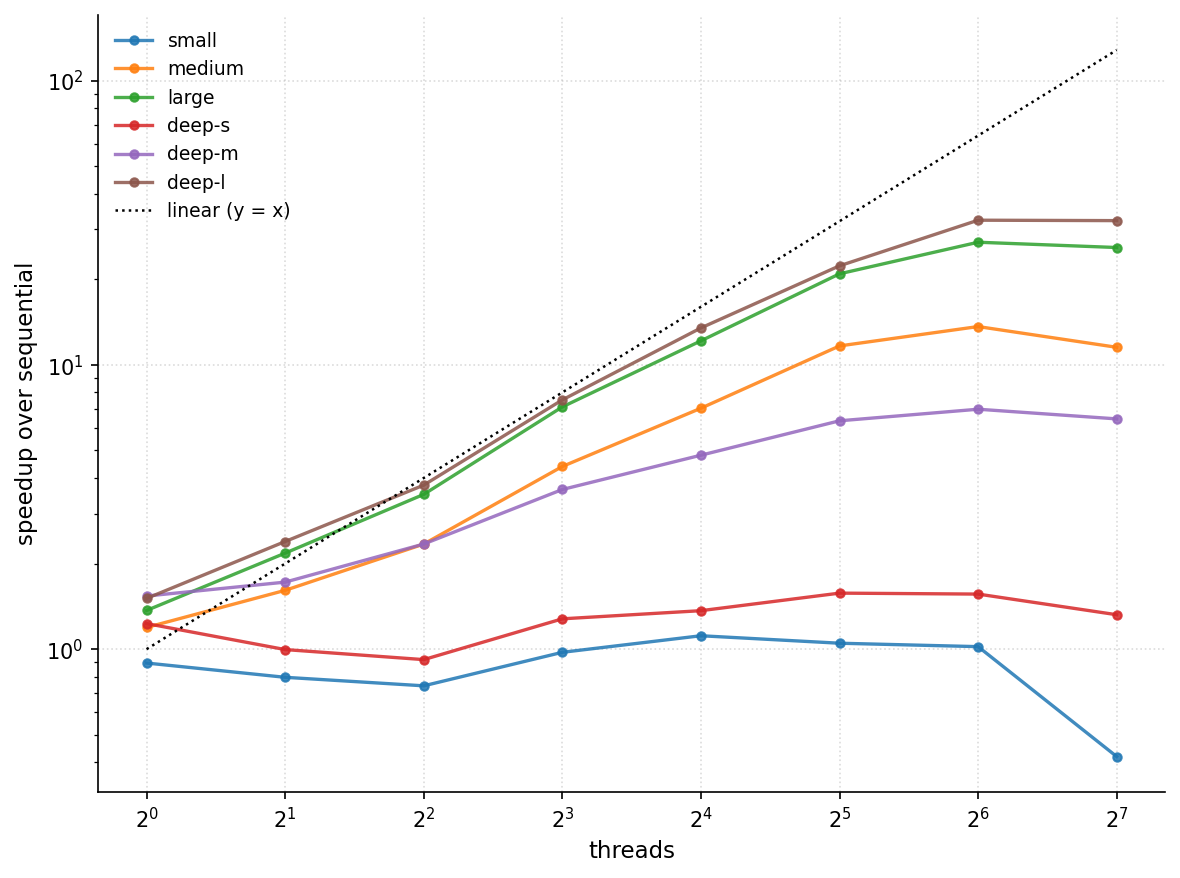
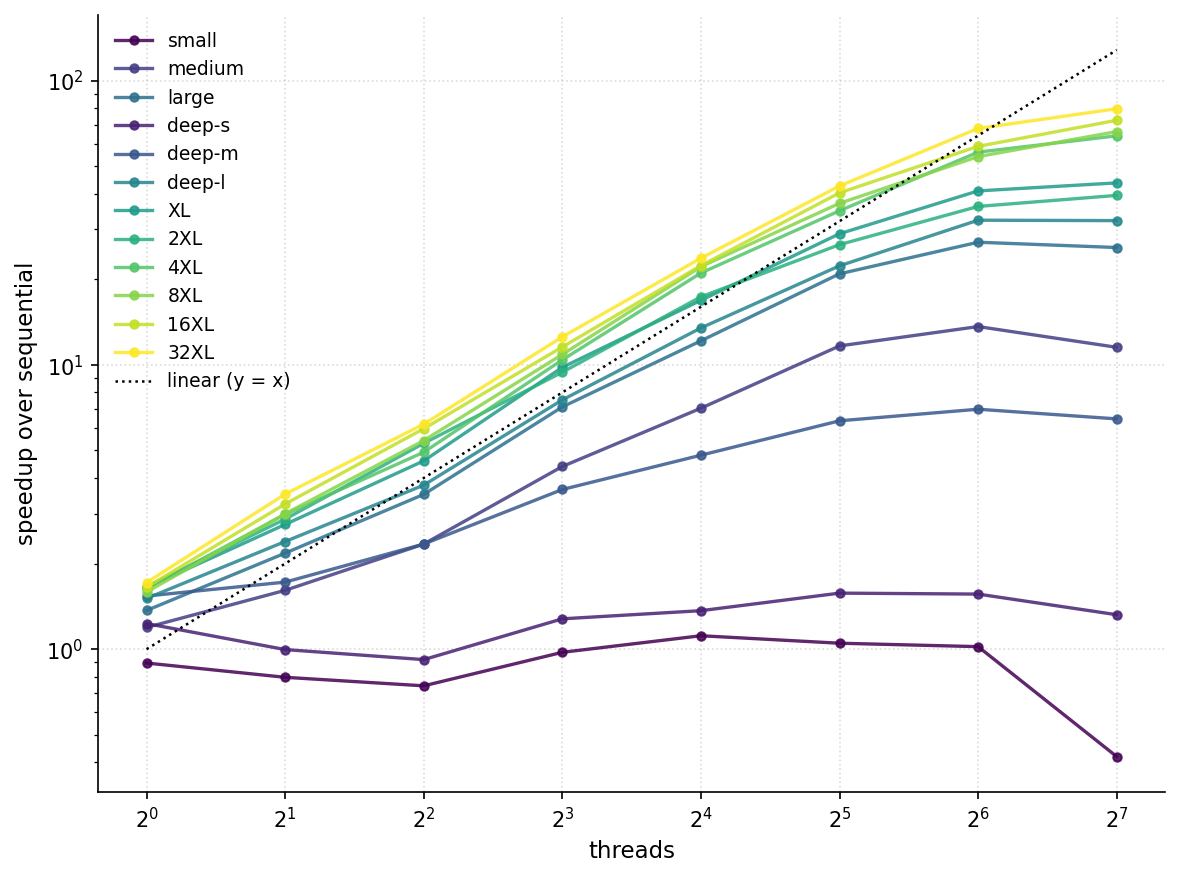
working

diff --git a/sections/3-algorithm.tex b/sections/3-algorithm.tex
@@ -48,23 +48,51 @@ linearizes regardless of contention.
 \subsection{Parallel Semisort}
 \label{subsec:semisort}
 
-At each round, we want to group congruent terms based on newly discovered equalities. To this end, we use the \emph{semisort} of Gu, Shun, Sun, and Blelloch~\cite{semisort}. Given a type $K$, and a sequence $S$ of $K$, an equality comparator $\mathit{eq} : K \times K \to \mathbb{B}$, and a hash function $h : K \to \mathbb{N}$, semisort will group equal keys in this sequence adjacently. Concretely, we use semisort to group congruence classes at each round.
+At each round, we want to group congruent terms based on newly discovered
+equalities. We use the \emph{semisort} of Gu, Shun, Sun, and
+Blelloch~\cite{semisort}. Given an array of (hash, term) pairs, we want to sort
+the array such that all pairs with the same hash are adjacent. Concretely, we
+use semisort to group congruence classes at each round.
 
 \subsection{Rounds-Based Congruence Closure}
 \label{subsec:rounds}
 
-At each round, we maintain a set of terms whose congruence classes may need to be updated. Intially, this comprises all terms appearing in base equalities. We then group congruent terms based on the equalities currently discovered, and merge the congruence classes of each group in the union-find. Grouping is accomplished via semisort---the \texttt{group\_by} operation in \texttt{parlay}---and merging congruence classes is accomplished through taking the union of the corresponding equality classes in the union-find.
+At each round, we maintain a set of terms whose congruence classes may need to
+be updated. Intially, this comprises all terms appearing in base equalities. We
+then group congruent terms based on the equalities currently discovered, and
+merge the congruence classes of each group in the union-find. Grouping is
+accomplished via semisort---the \texttt{group\_by} operation in
+\texttt{parlay}---and merging congruence classes is accomplished through taking
+the union of the corresponding equality classes in the union-find.
 
-We then propagate terms whose congruence classes may have changed to the next round. These are exactly the \emph{predecessors} of nodes that whose congruence classes have changed that round. Specifically, if the congruence class of term $e$ has changed, then the congruence class of $f(e)$ may have changed as well. This requires maintaining the predecessors of every congruence class; specifically a mapping \textit{pred} between class identifiers and identifiers of predecessors of that class. This mapping must be updated every round; if two congruence classes are merged, then their predecessors must be merged as well. These rounds continue until there is no longer any work to do. Pseudocode depicting this algorithm is shown in Figure~\ref{fig:alg:bsp}.
+We then propagate terms whose congruence classes may have changed to the next
+round. These are exactly the \emph{parents} of nodes that whose congruence
+classes have changed that round. Specifically, if the congruence class of term
+$e$ has changed, then the congruence class of $f(e)$ may have changed as well.
+This requires maintaining the parents of every congruence class;
+specifically a mapping \textit{pred} between class identifiers and identifiers
+of parents of that class. This mapping must be updated every round; if two
+congruence classes are merged, then their parents must be merged as well.
+These rounds continue until there is no longer any work to do. Pseudocode
+depicting this algorithm is shown in Figure~\ref{fig:alg:bsp}.
 
-The algorithm is decomposed into three different functions. The function \textsc{Congruent} checks whether two terms are congruent based on the equivalence classes in the union find. Two terms are congruent if they are both the same function symbol and each of their subterms are pointwise congruent.
+The algorithm is decomposed into three different functions. The function
+\textsc{Congruent-Level1} checks whether two terms are congruent based on the
+equivalence classes in the union find\footnote{\textsc{Level1} comes from the
+fact that we are only considering congruent terms with only one level of
+nesting}. Two terms are congruent if they are both the same function symbol and
+each of their subterms are pointwise congruent.
 
-The \textsc{Merge} function is used to merge the equivalence classes of different terms. Specifically, given a sequence $S$ of terms, it will union the classes of every term in $S$. We take a simple divide-and-conquer approach; we merge the left and right halves (in parallel), and then \textsc{Union} the representatives of the two classes.
+The \textsc{MergeCongruenceClass} function is used to merge the equivalence classes of
+different terms. Specifically, given a sequence $S$ of terms, it will union the
+classes of every term in $S$. We take a simple divide-and-conquer approach; we
+merge the left and right halves (in parallel), and then \textsc{Union} the
+representatives of the two classes.
 
 \begin{figure}
   \centering
 \begin{algorithmic}[1]
-    \Function{Congruent}{X, Y}
+    \Function{Congruent-Level1}{X, Y}
       \If{$X = f(M_1,\ldots,M_n)$ and $Y = f(N_1,\ldots,N_n)$}
         \State \Return $\Call{Find}{M_i} = \Call{Find}{N_i}$ for all $i = 1,\ldots,n$
       \Else 
@@ -87,12 +115,12 @@ The \textsc{Merge} function is used to merge the equivalence classes of differen
     \Function{ParallelClose}{equalities = $\{e_1 = e_1', \ldots, e_w = e_w'\}$}
         \State $\mathit{Frontier} \gets \text{every term appearing in } \mathit{equalities}$
         \While{$\mathit{Frontier}$ is not empty}
-          \State $\mathit{groups} \gets \text{congruence classes quotiented by } \textsc{Congurent}$.
+          \State $\mathit{groups} \gets \text{congruence classes quotiented by } \textsc{Congruent-Level1}$.
           \ParFor{$\mathit{group} \in \mathit{groups}$}
             \State $\rhd$ Merge every term within congruence class
-            \State $\mathit{rep} \gets \Call{Merge}{\mathit{group}}$
+            \State $\mathit{rep} \gets \Call{MergeCongruenceClass}{\mathit{group}}$
             \State $\rhd$ Construct new parent lists
-            \State $\mathit{groups}[\mathit{rep}] \gets \Call{ConcatMap}{\lambda \mathit{group}. \; \mathit{Parents}[\mathit{group}]}$
+            \State $\mathit{Parents}[\mathit{rep}] \gets \Call{ConcatMap}{\lambda \mathit{group}. \; \mathit{Parents}[\mathit{group}]}$
           \EndParFor
           \State $\mathit{Frontier} \gets \Call{Flatten}{\mathit{groups}}$
         \EndWhile
@@ -102,61 +130,3 @@ The \textsc{Merge} function is used to merge the equivalence classes of differen
 \caption{Round-based congruence closure algorithm}
 \label{fig:alg:bsp}
 \end{figure}
-
-% \begin{algorithmic}[1]
-%     \Function{Merge}{M, N}
-%         \If{$\Call{Find}{M} = \Call{Find}{N}$}
-%             \State \Return
-%         \EndIf
-%         \State \Call{Union}{M,N}
-%         \State Let $P_M$ be the predecessors associated with the congruence class of $M$
-%         \State Let $P_N$ be the predecessors associated with the congruence class of $N$
-%         \For{$(X, Y) \in P_M \times P_N$}
-%           \If{$\Call{Find}{X} \neq \Call{Find}{Y}$ and $\Call{Congruent}{X, Y}$}
-%             \State $\Call{Merge}{X, Y}$
-%           \EndIf
-%         \EndFor
-%     \EndFunction
-%     \Function{Congruent}{X, Y}
-%       \If{$X = f(M_1,\ldots,M_n)$ and $Y = f(N_1,\ldots,N_n)$}
-%         \State \Return $\Call{Find}{M_i} = \Call{Find}{N_i}$ for all $i = 1,\ldots,n$
-%       \Else 
-%         \State \Return \textbf{false}
-%       \EndIf
-%     \EndFunction
-% \end{algorithmic}
-
-% \begin{algorithm}
-% \caption{Parallel congruence closure (one round)}
-% \label{alg:rounds}
-% \textbf{Input:} 
-
-% e-graph $G$ with concurrent UF $U$, parent-index
-% $P[\,\cdot\,]$, per-class \emph{changed} flags $C[\,\cdot\,]$, after a
-% batch of initial unions has marked each affected class. \\
-% \textbf{Output:} A new round's worth of merges; loop until no merges
-% fire.
-% \begin{enumerate}
-%   \item \emph{Frontier.} In parallel over class ids, \texttt{filter} $C$
-%         to collect $F = \{c : C[c]\}$ and clear the corresponding flags.
-%   \item \emph{Gather.} \texttt{flat\_map} $F$ through $P$ to obtain the
-%         list of candidate parent e-nodes whose signature might have
-%         shifted.
-%   \item \emph{Canonicalize.} \texttt{map} each candidate $n$ to a
-%         triple $(h, \mathit{idx}, r)$ where $h$ is a 64-bit hash of
-%         $(\mathrm{op}(n), U.\textsc{find}(c_1), \dots,
-%                        U.\textsc{find}(c_k))$,
-%         $\mathit{idx}$ is the candidate's position in the e-node array,
-%         and $r = U.\textsc{find}(\mathrm{class}(n))$.
-%   \item \emph{Group.} Hash $h$ into one of $B$ buckets and apply the
-%         parallel semisort of Section~\ref{subsec:semisort}.
-%   \item \emph{Detect merges.} In parallel over buckets, sort within
-%         each bucket by $(h, \text{lexicographic canonicalized
-%         children})$ and scan adjacent pairs: every pair with equal
-%         signature whose representatives differ contributes a
-%         $(r_a, r_b)$ pair to a new \emph{merge list}.
-%   \item \emph{Apply.} In parallel over the merge list, call
-%         $U.\textsc{union}(r_a, r_b)$ and set $C[r_a] = C[r_b] =
-%         \texttt{true}$.
-% \end{enumerate}
-% \end{algorithm}

diff --git a/sections/2-background.tex b/sections/2-background.tex
@@ -50,9 +50,9 @@ To make the structure concrete, consider the formula:
 This formula consists of two equalities $a_0 = b_0$ and $a_1 = b_1$, and a single
 disequality between two terms built from $f$ and $g$. The disequality compares
 two applications of $g$, whose four arguments are the $f$-terms over the index
-set $\{0, 1\}^2$. The expected outcome is \texttt{unsat}.
+set $\{0, 1\}^2$.
 
-Closure proceeds as follows. After applying the two asserted unions, the
+Congruence closure proceeds as follows. After applying the two asserted unions, the
 union-find places $a_0 \equiv b_0$ and $a_1 \equiv b_1$. Then by congruence
 we have that $f(a_0, a_0) \equiv f(b_0, b_0)$ (both children match),
 and similarly for the other $f$-terms. 
@@ -66,8 +66,9 @@ Notice that this propagates in rounds: initially, the only equalities we know
 are $a_0 = b_0$ and $a_1 = b_1$, these can be added to the union-find concurrently.
 Once these are added, the four equalities between the $f$-terms are directly implied
 by these. Hence, they can be added concurrently in the next round. Finally, once
-these are added, the two $g$-terms are equal and can be added. Hence, we can 
-finish congruence closure in three rounds of size $2, 4, 1$ respectively. This is 
+these are added, the two $g$-terms are equal and can be added. Using 
+our parallel algorithm (described in \autoref{sec:alg}), we can finish 
+congruence closure in three rounds of size $2, 4, 1$ respectively. This is 
 opposed to the sequential algorithm, which would process $7$ merges one at a time.
 We make these intuitions precise in Section~\ref{sec:alg}.
 
@@ -76,21 +77,8 @@ We make these intuitions precise in Section~\ref{sec:alg}.
 Our implementation uses ParlayLib~\cite{parlaylib}, a C++ library for efficient 
 parallel algorithms. We rely on Parlay Lib's \texttt{parallel\_for}, \texttt{filter},
 \texttt{flatten}, and a parallel \emph{semisort}~\cite{semisort}. The semisort
-takes a sequence of (hash, payload) pairs and reorganizes them so that all
+takes a sequence of (hash, term) pairs and reorganizes them so that all
 entries with the same hash are contiguous; we use it to group e-nodes by
-canonical signature within a closure round. ParlayLib's scheduler controls the
+canonical signature. ParlayLib's scheduler controls the
 number of worker threads via the \texttt{PARLAY\_NUM\_THREADS} environment
 variable, which we use to sweep core counts in our evaluation. 
-
-% A
-% \emph{bulk-synchronous parallel} (BSP) pass alternates between parallel work and
-% global barriers. 
-
-
-% Our parallel closure is structured this way: each round
-% runs a full data-parallel pipeline (gather frontier $\to$ canonicalize $\to$
-% semisort by signature $\to$ merge groups), then the next round starts only once
-% the previous one's unions are visible to all workers. Within a round, every step
-% of the pipeline is a single parlay primitive over a single sequence, so the
-% runtime can stripe the work across threads without us writing any explicit
-% synchronization.

diff --git a/sections/6-implementation.tex b/sections/6-implementation.tex
@@ -1,7 +1,24 @@
 \section{Implementation Details}
 \label{sec:impl}
 
-Here we describe some small implementation choices that had a large bearing on performance. One was memoizing the hash function of a given term during semisort to avoid recomputing it multiple times, which can be expensive. Hashing a term requires hashing its function symbol, alongside the representatives of each of its operands. This requires executing a \textsc{Find} for every term. We therefore compute the hash of every term in the frontier at the beginning of a round, store this in a \texttt{struct}, and perform semisort on these structs. 
+Here we describe some small implementation choices that had a large bearing on
+performance. One was memoizing the hash function of a given term during semisort
+to avoid recomputing it multiple times, which can be expensive. Hashing a term
+requires hashing its function symbol, alongside the representatives of each of
+its operands. This requires executing a \textsc{Find} for every term. We
+therefore compute the hash of every term in the frontier at the beginning of a
+round, store this in a \texttt{struct}, and perform semisort on these structs. 
 
 
-Another optimization is that, when semisorting to determine congruence classes, we perform an equality check on a secondary hash rather than deterministically checking whether two terms are actually operand-wise equal as in the pseudocode for \textsc{Congruent} in Figure~\ref{fig:alg:bsp}. This is because we empirically found that having semisort probe over every bucket using this deterministic equality check was very expensive. Changing the equality check to a secondary hash allows the equality check when probing over a bucket to be much cheaper. However, this introduces technical unsoundness, but this is tantamout to a 96-bit hash collision, with probability about $10^{-14}$ for workloads of our size (this can be computed via birthday-paradox like tricks). Although this introduces a negligible chance of unsoundness, this change resulted in a 50\% speedup, which we believe to be well-worth it.
+Another optimization is that, when semisorting to determine congruence classes,
+we perform an equality check on a secondary hash rather than deterministically
+checking whether two terms are actually operand-wise equal as in the pseudocode
+for \textsc{Congruent} in Figure~\ref{fig:alg:bsp}. This is because we
+empirically found that having semisort probe over every bucket using this
+deterministic equality check was very expensive. Changing the equality check to
+a secondary hash allows the equality check when probing over a bucket to be much
+cheaper. However, this introduces technical unsoundness, but this is tantamout
+to a 96-bit hash collision, with probability about $10^{-14}$ for workloads of
+our size (this can be computed via birthday-paradox like tricks). Although this
+introduces a negligible chance of unsoundness, this change resulted in a 50\%
+speedup, which we believe to be well-worth it.

diff --git a/sections/4-evaluation.tex b/sections/4-evaluation.tex
@@ -131,8 +131,11 @@ both $i$ is sampled uniformly at random from the range $f$.
 \autoref{fig:random:loglog} shows the runtime of our parallel congruence closure
 We observe that on workloads with more nodes, our algorithm achieves a close to
 linear speedup over the sequential version. This plateaus at around 64 threads,
-for instance, 32-XL achieves a speedup of TODO\% on 64 threads and TODO\% on 128
-threads.
+for instance, 32-XL achieves a speedup of 67.9$\times$ on 64 threads and 79.6$\times$ on 128
+threads. Note that on sufficiently large workloads, we can achieve superlinear 
+speedups. We believe that this is because the bulk synchronous design is better 
+equippd for these very large workloads, and thus the parallel implementation is 
+faster thatn the 
 
 While varying the number of nodes, leads to better speedups, the results for
 varying the depth is more complicated. For instance, while \texttt{deep-s} and

diff --git a/main.tex b/main.tex
@@ -29,6 +29,13 @@
 \setcounter{totalnumber}{6}
 \setcounter{dbltopnumber}{3}
 
+% Capitalize \autoref names for sections and subsections.
+\AtBeginDocument{%
+  \renewcommand{\sectionautorefname}{Section}%
+  \renewcommand{\subsectionautorefname}{Subsection}%
+  \renewcommand{\subsubsectionautorefname}{Subsubsection}%
+}
+
 % --- todo notes ---
 % Comment out the next line (or pass [disable]) before camera-ready
 % to suppress every \todo / \zk / \as marker in one go.
